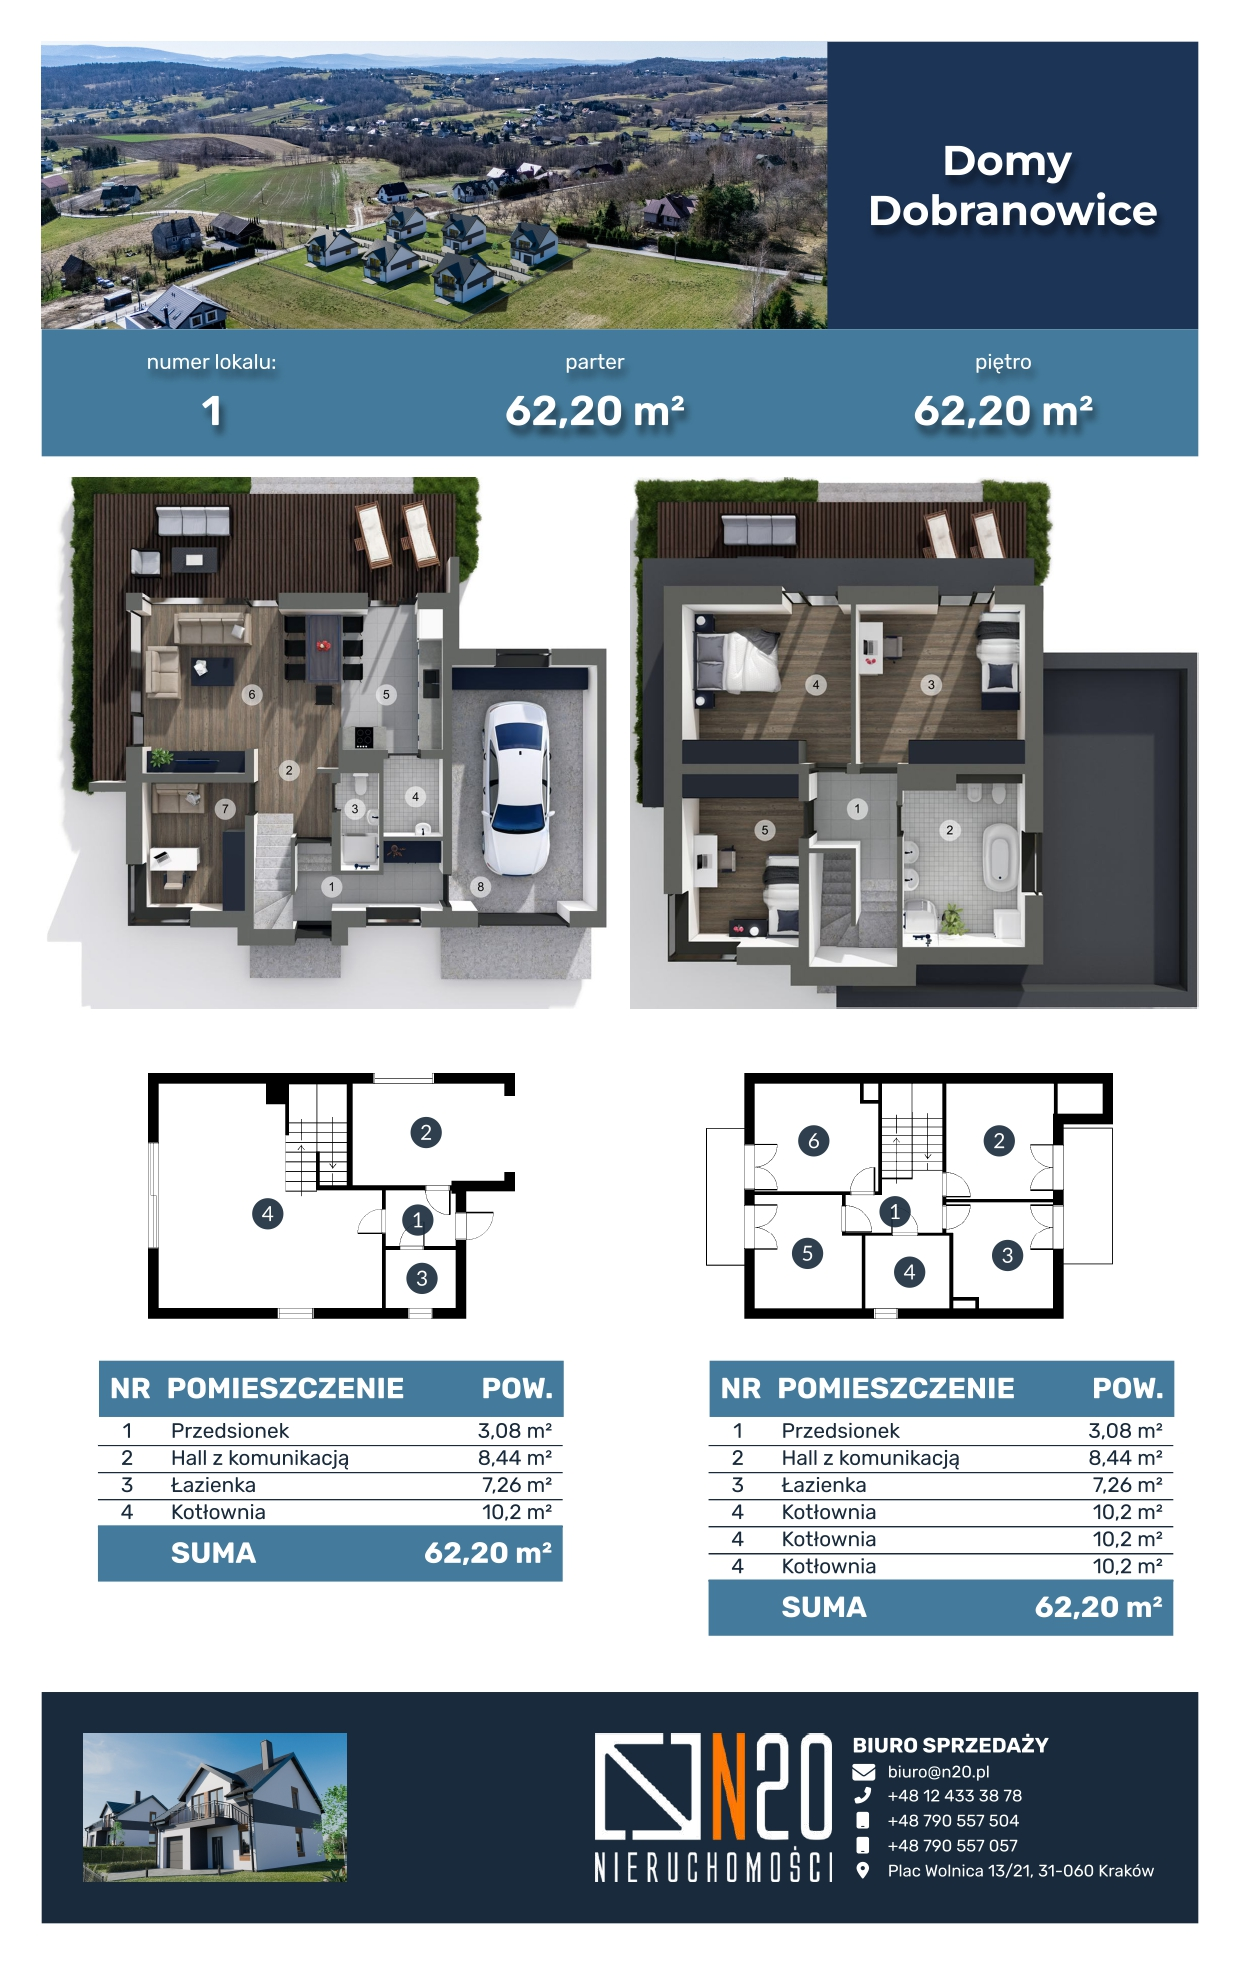
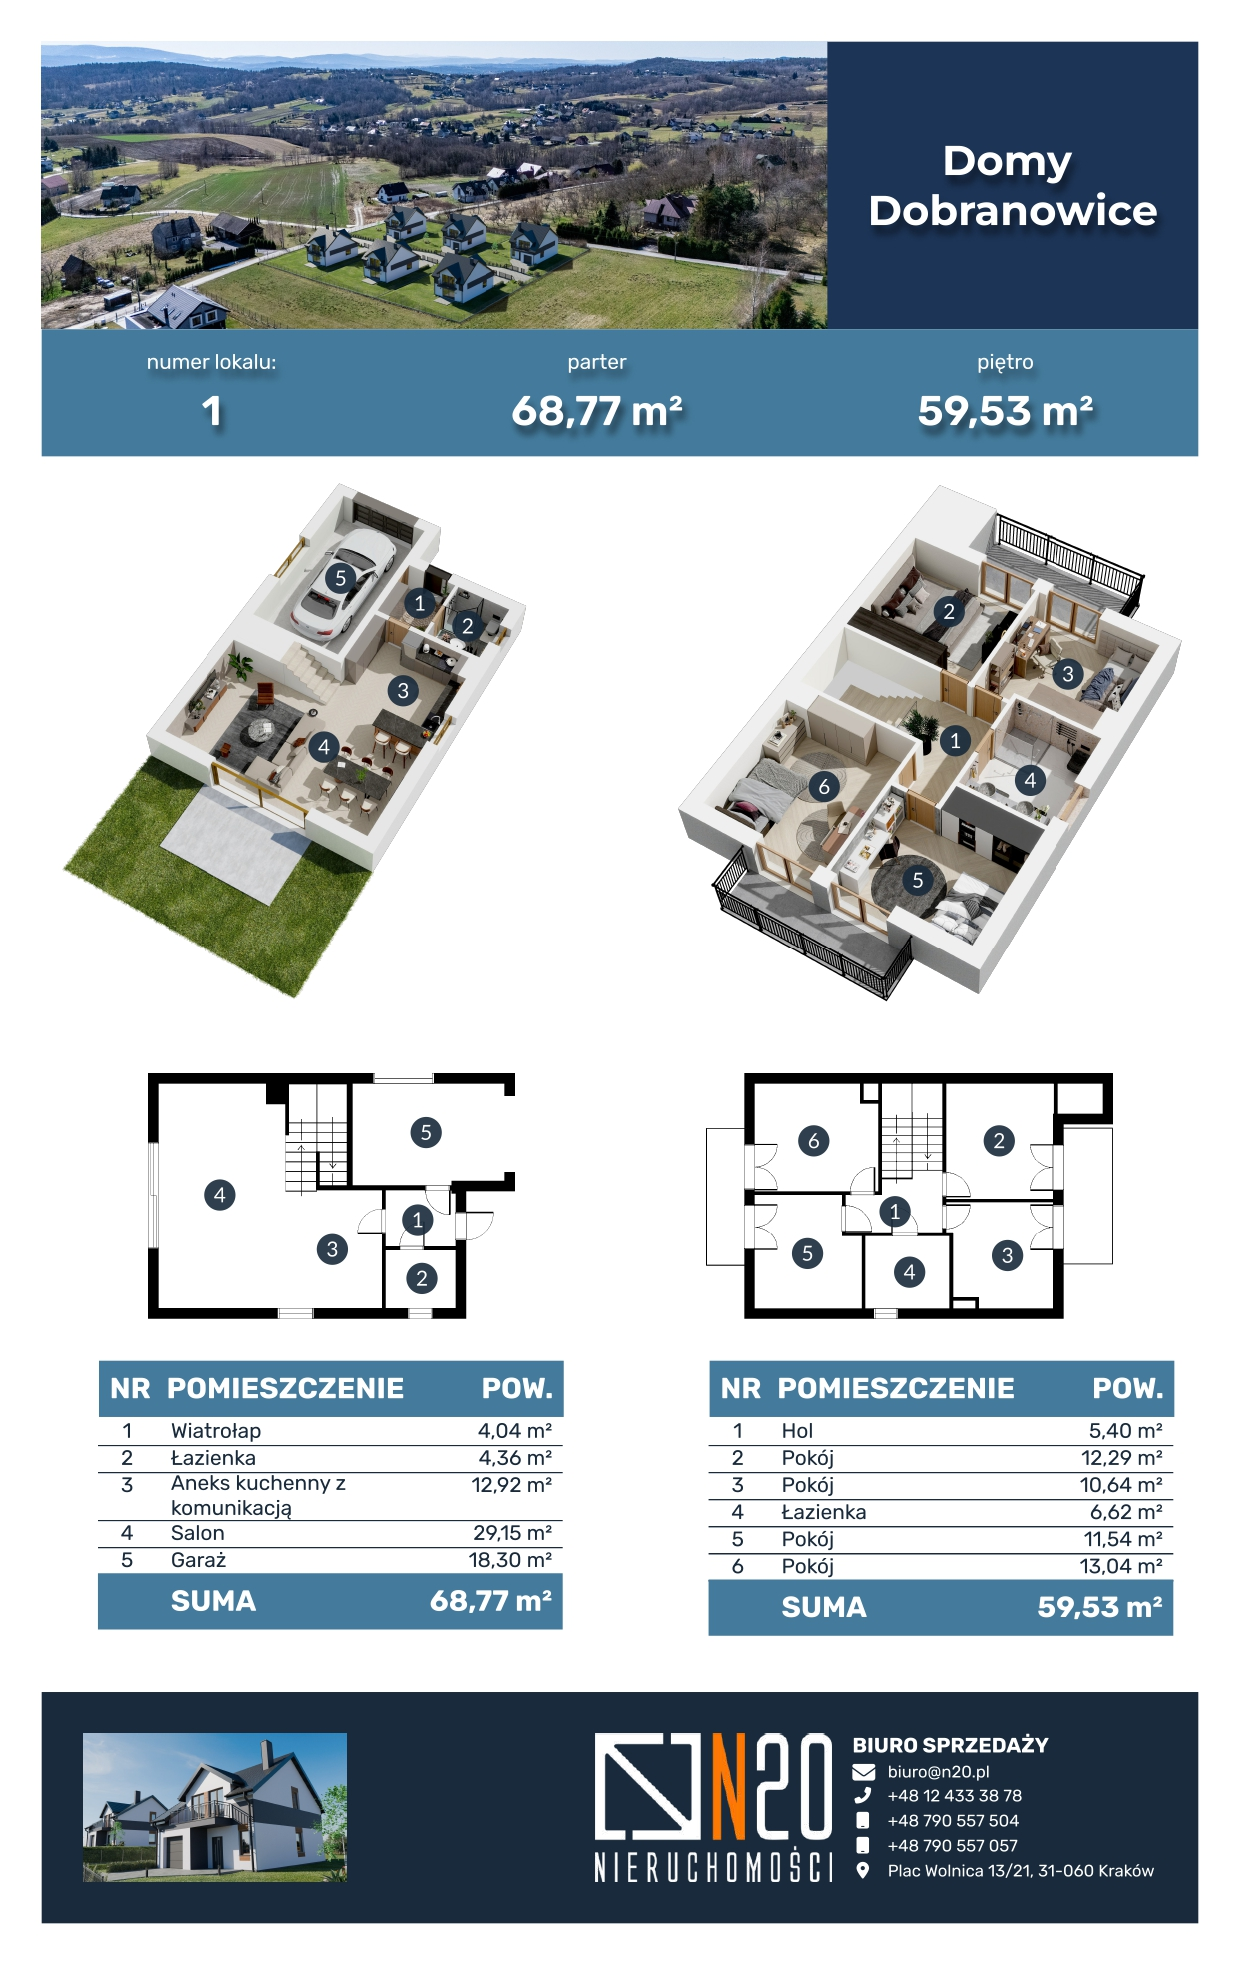
feat: updated house data structure and added house cards

diff --git a/config/houseData.ts b/config/houseData.ts
@@ -1,8 +1,8 @@
 export type HouseData = {
   pdf: string;
   status: number;
-  dzialka: number;
-  cena: number;
+  dzialka: string | number;
+  cena: string | number;
   numer: string;
   metraz: number;
   Id: string;
@@ -14,74 +14,74 @@ export type HouseData = {
 export const houseData: HouseData[] = [
   {
     pdf: "/kartyMieszkan/1.jpg",
-    status: 0,
-    dzialka: 5.71,
-    cena: 1049000,
+    status: 1,
+    dzialka: "-",
+    cena: "-",
     numer: "1",
-    metraz: 145.45,
+    metraz: 128.3,
     Id: "dom1",
     pokoje: 5,
     x: 32,
     y: 50,
   },
   {
-    pdf: "/kartyMieszkan/1.jpg",
+    pdf: "/kartyMieszkan/2.jpg",
     status: 1,
-    dzialka: 5.71,
-    cena: 1049000,
+    dzialka: "-",
+    cena: "-",
     numer: "2",
-    metraz: 145.45,
+    metraz: 128.3,
     Id: "dom2",
     pokoje: 5,
     x: 43,
     y: 45,
   },
   {
-    pdf: "/kartyMieszkan/1.jpg",
-    status: 2,
-    dzialka: 5.71,
-    cena: 1049000,
+    pdf: "/kartyMieszkan/3.jpg",
+    status: 1,
+    dzialka: "-",
+    cena: "-",
     numer: "3",
-    metraz: 145.45,
+    metraz: 128.3,
     Id: "dom3",
     pokoje: 5,
     x: 52,
     y: 41,
   },
   {
-    pdf: "/kartyMieszkan/1.jpg",
-    status: 2,
-    dzialka: 5.71,
-    cena: 1049000,
+    pdf: "/kartyMieszkan/4.jpg",
+    status: 1,
+    dzialka: "-",
+    cena: "-",
     numer: "4",
-    metraz: 145.45,
+    metraz: 128.3,
     Id: "dom4",
     pokoje: 5,
-    x: 52,
-    y: 73,
+    x: 71,
+    y: 59,
   },
   {
-    pdf: "/kartyMieszkan/1.jpg",
-    status: 2,
-    dzialka: 5.71,
-    cena: 1049000,
+    pdf: "/kartyMieszkan/5.jpg",
+    status: 1,
+    dzialka: "-",
+    cena: "-",
     numer: "5",
-    metraz: 145.45,
+    metraz: 128.3,
     Id: "dom5",
     pokoje: 5,
     x: 63,
     y: 66,
   },
   {
-    pdf: "/kartyMieszkan/1.jpg",
-    status: 2,
-    dzialka: 5.71,
-    cena: 1049000,
+    pdf: "/kartyMieszkan/6.jpg",
+    status: 1,
+    dzialka: "-",
+    cena: "-",
     numer: "6",
-    metraz: 145.45,
+    metraz: 128.3,
     Id: "dom6",
     pokoje: 5,
-    x: 71,
-    y: 59,
+    x: 52,
+    y: 73,
   },
 ];
